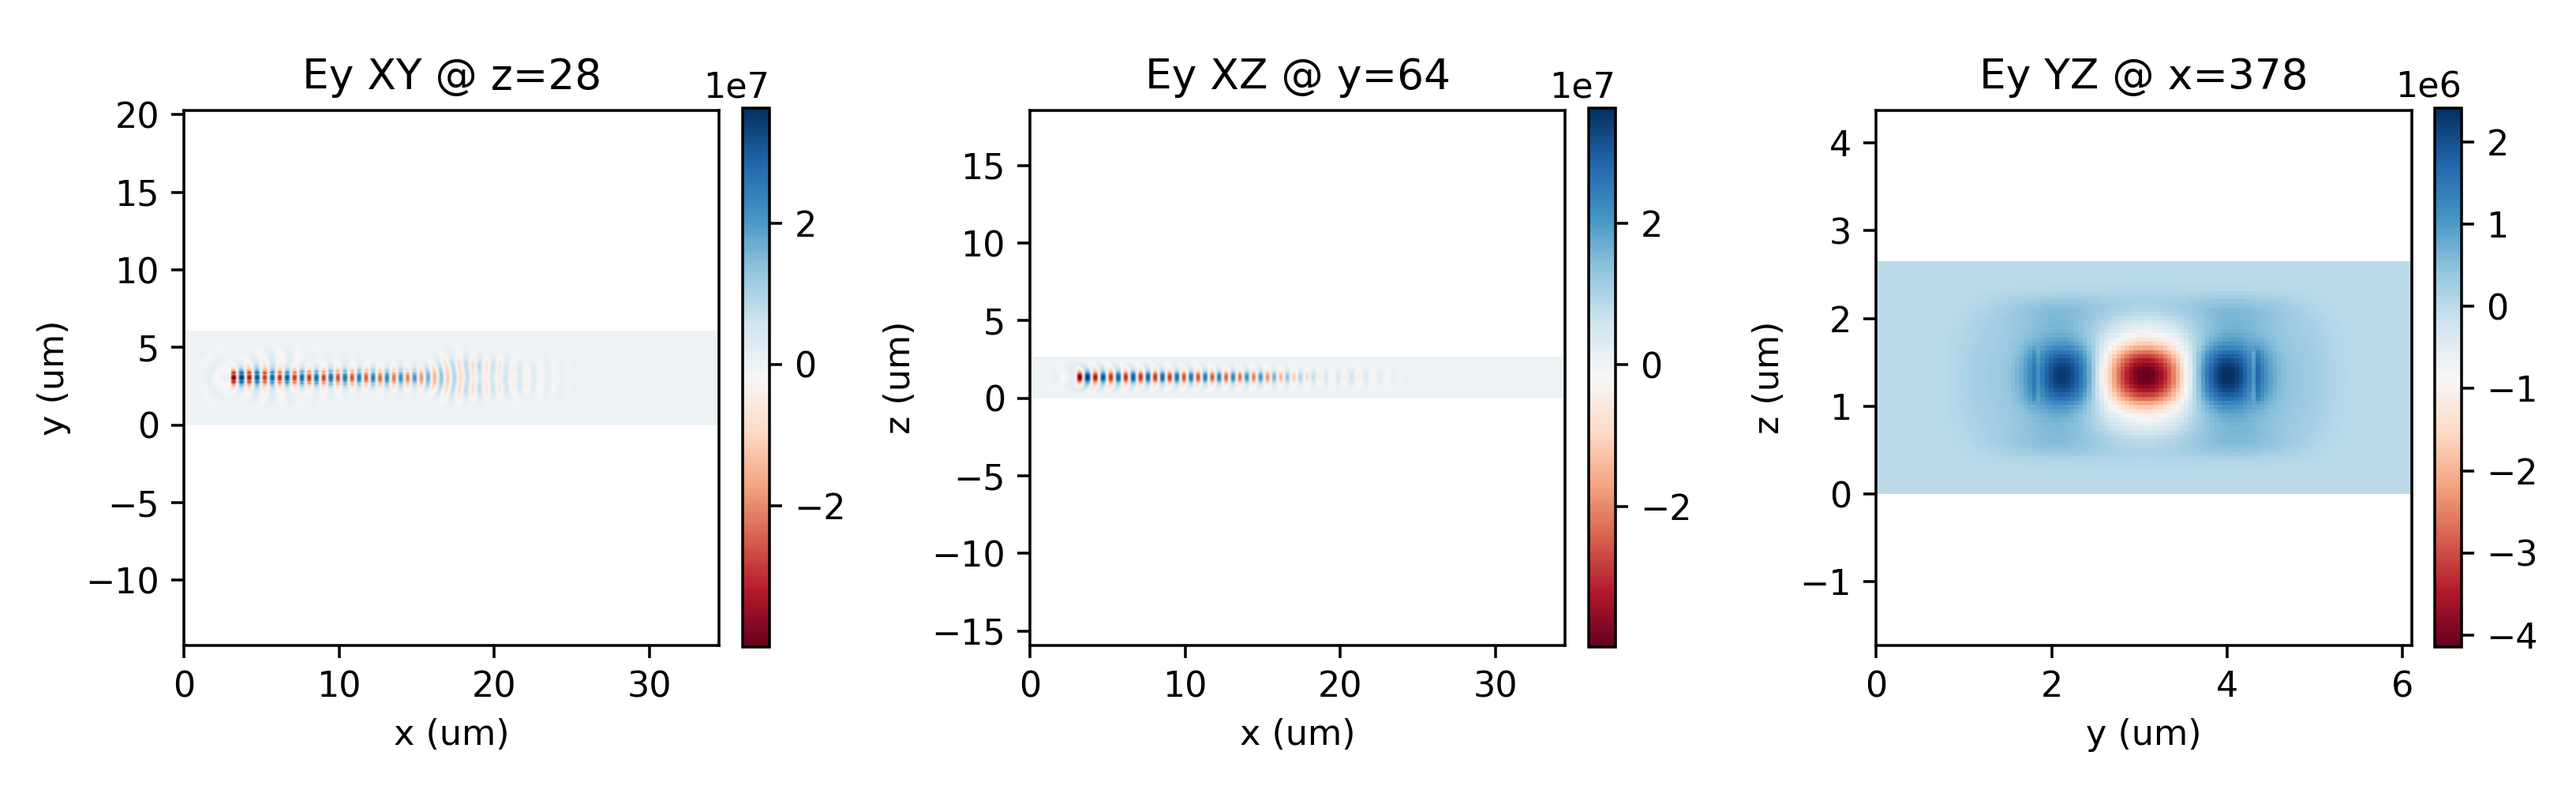
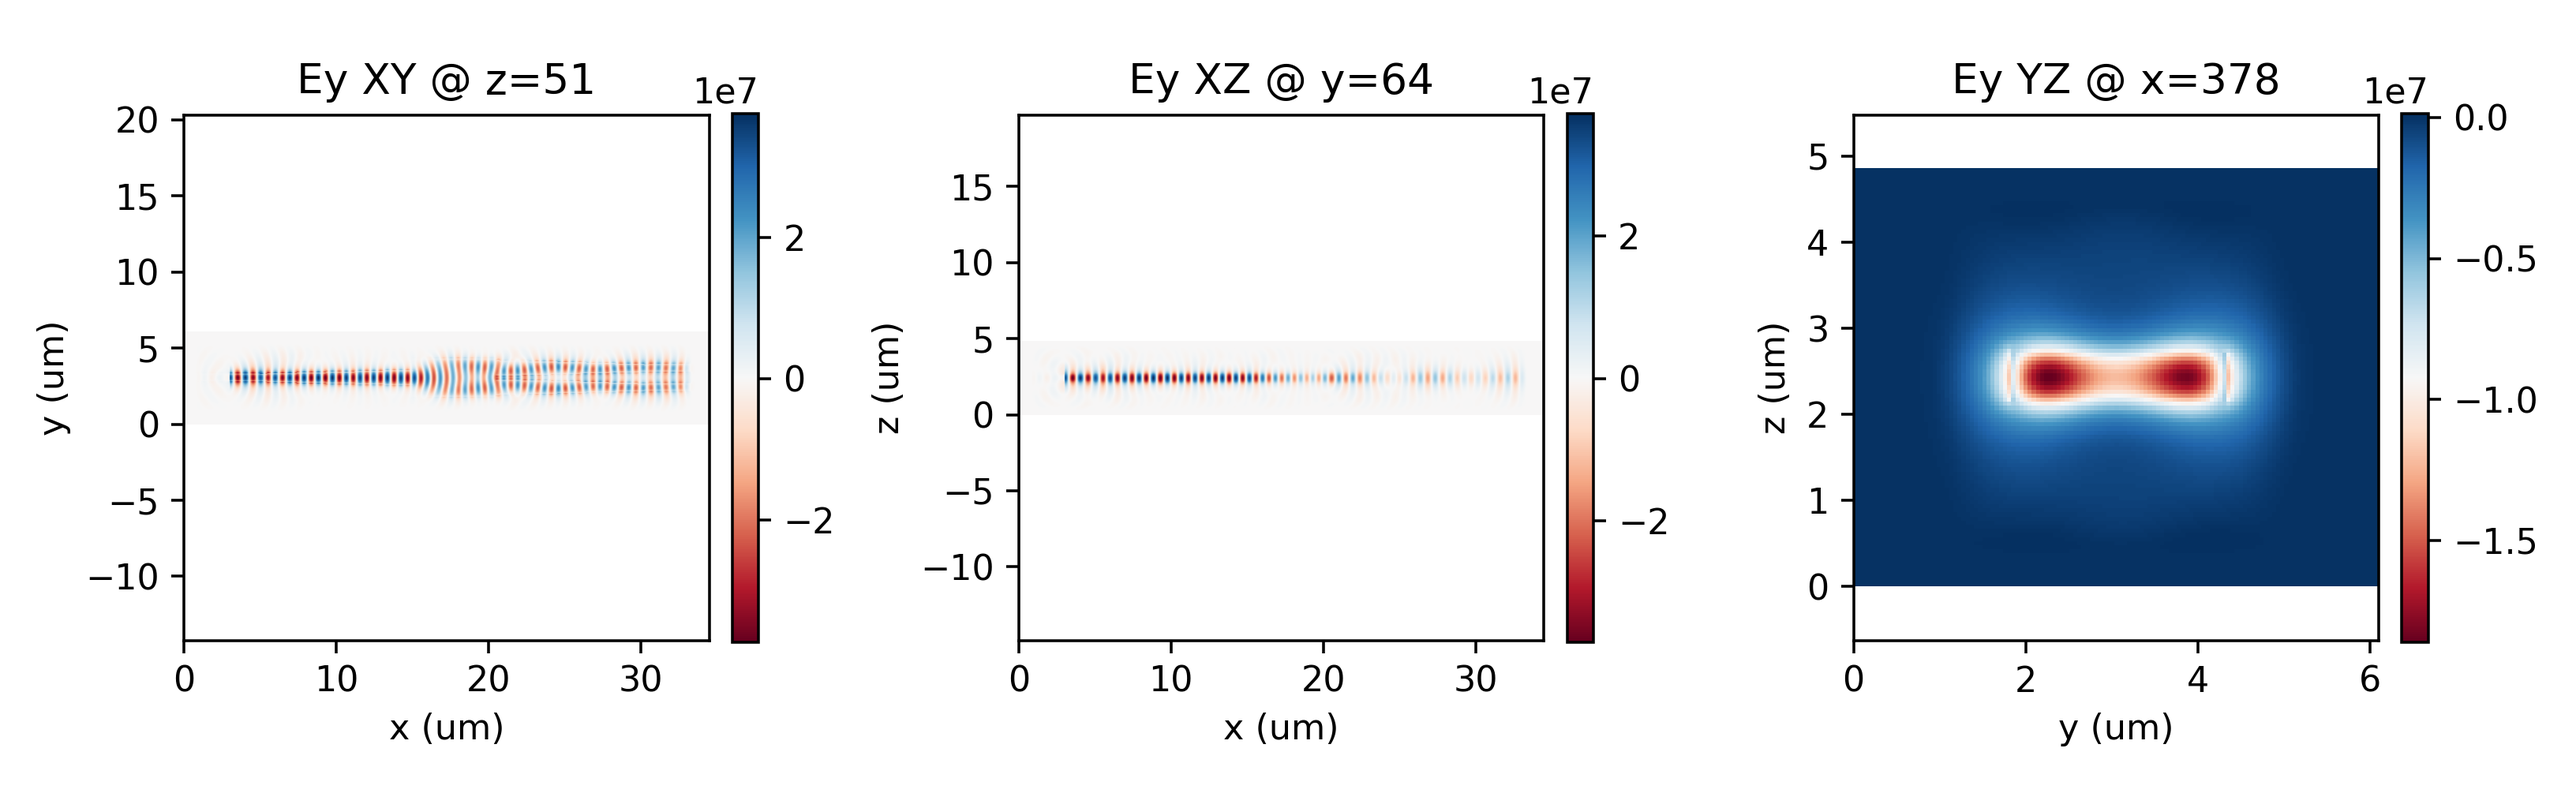
Increase the z padding and get close to 80% transmission.

diff --git a/examples/gdsf_to_sax_3d.py b/examples/gdsf_to_sax_3d.py
@@ -172,8 +172,8 @@ def main():
     output_extension = 4.0 * µm
     y_margin = 1.8 * µm
 
-    clad_below = 1.1 * µm
-    clad_above = 1.1 * µm
+    clad_below = 2.2 * µm
+    clad_above = 2.2 * µm
     depth = clad_below + core_t + clad_above
     core_z0 = clad_below
     core_zc = core_z0 + 0.5 * core_t
@@ -255,7 +255,7 @@ def main():
     src = ports["o1"]
     # Larger source/monitor windows to stabilize 3D mode solving/projection.
     src_w = max(1.60 * µm, 3.2 * src["width"])
-    src_h = max(1.40 * µm, 3.0 * core_t)
+    src_h = max(2.20 * µm, 4.8 * core_t)
     max_src_w = max(0.2 * µm, design.height - 2.0 * pml_xy - 0.10 * µm)
     max_src_h = max(0.2 * µm, design.depth - 2.0 * pml_z - 0.10 * µm)
     src_w = min(src_w, max_src_w)
@@ -282,7 +282,7 @@ def main():
     )
 
     mon_y_span = max(1.60 * µm, 3.2 * src["width"])
-    mon_z_span = max(1.40 * µm, 3.0 * core_t)
+    mon_z_span = max(2.20 * µm, 4.8 * core_t)
 
     # Place source and input monitors on the long straight input section (before taper/MMI).
     fwd_x = float(np.clip(source_x + 0.70 * µm, x_straight_min + 0.1 * µm, x_straight_max - 0.1 * µm))
